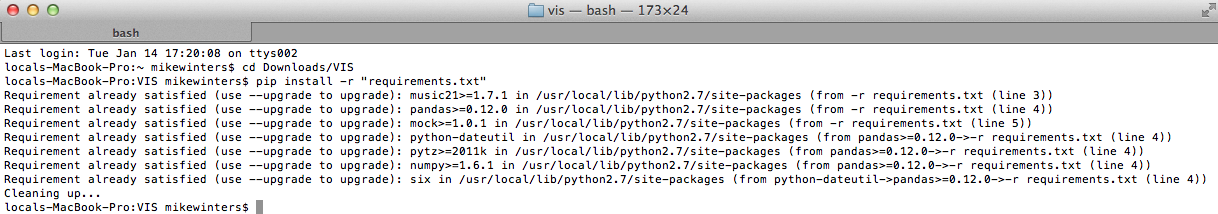
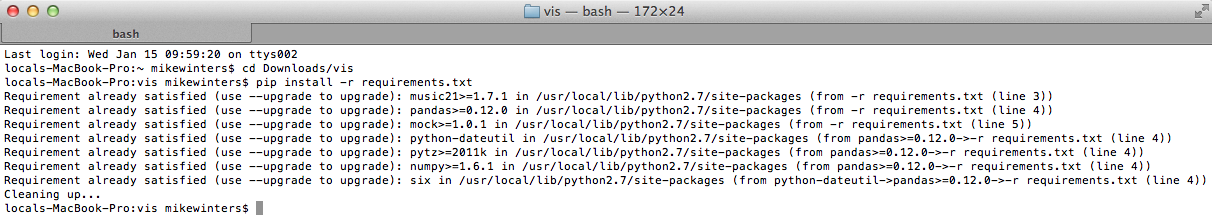
Finalized installingVIS.html after user test

diff --git a/installingVIS.html b/installingVIS.html
@@ -61,45 +61,55 @@
 
 <h2> Installing VIS  </h2>
 
-<p> Installing VIS is a two step process. First, you download the folder which includes all of our code (<a href="https://github.com/ELVIS-Project/vis/archive/master.zip">here</a>), then you install the packages that our code needs to run. The first step is easy, but the second will require some familiarity with your consol/terminal window.</p>
+<p> Installing VIS is a two step process. First, you download the folder which includes all of our code, then you install the packages that our code needs to run. The first step is easy, but the second will require some familiarity with your <a href="http://mac.appstorm.net/how-to/utilities-how-to/how-to-use-terminal-the-basics/">consol/terminal</a> window.</p>
 
+<h4> Downloading Source Code</h4>
+<p>You can get the source code in one of two ways:</p>
+<ol>
+	<li>Download this direct <a href="https://github.com/ELVIS-Project/vis/archive/master.zip">link</a>, unpack the .zip file, and change the name from 'VIS-Master' to 'vis'.</li> OR
+	<li>Run <code>git clone git@github.com:ELVIS-Project/vis.git</code> in Terminal.</li>
+</ol>
+<p>For the rest of the tutorial, we will assume you did the first option, and that if you did the second option, you can follow along.</p>
 <h4> Installing required packages </h4>
 
-<p> This is the tricky step, and will require a little knowledge of your terminal/consol window. The following steps will work for MacOSX. </p>
+<p> This is the tricky step, and will require a little knowledge of your terminal/consol window. The following steps will work for MacOSX, assuming your 'vis' folder is in your 'Downloads' folder. </p>
 
-<h5> Open your terminal window <h5>
+<h5> Step 1: Open your terminal window <h5>
 <img src="img/installingVIS/Terminal.png" alt="Opening Terminal">
 
-<h5> 'cd' into your recently downloaded VIS folder</h5>
+<h5> Step 2: Type 'cd Downloads/vis' and press 'enter'.</h5>
 <!--<p>(running 'ls' shows everything inside the folder)</p>-->
 <img src="img/installingVIS/cdinto.png" alt="cdintothefolder">
-
-<h5> run 'pip install -r requirements'</h5>
+<p> This step assumes 'vis' is in your 'Downloads' folder.  If it isn't, you should move it there and try again, or 'cd' into the folder which 'vis' is in.</p>
+<h5> Step 3: Type 'pip install -r requirements.txt' and press 'enter'.</h5>
 <img src="img/installingVIS/runpip.png" alt="Run pip install">
 <p></p>
 <p> Pip is a tool for installing and managing python packages.  Running 'pip install -r requirements' makes pip go and fetch the packages VIS needs to work, and puts them in a place that VIS can find them.</p>
 <p> In the previous example, pip found that I already had all of the packages needed (e.g. music21, pandas, mock), so it did nothing.  If this is your first time installing VIS, it may take a while for pip to download all of these packages.  In this case, you will likely see a verbosity of activity, which after a minute or so will end with 'Cleaning up...'</p>
-<p> Indeed, if this is your first time using pip, it may not be installed.  You will have to do this first.  Search google for '<a href="https://www.google.com/search?q=how+to+install+pip&oq=how+to+install+pip">how to install pip</a>', and follow the instructions there.
+<p> Indeed, if this is your first time using pip, it may not be installed.  You will have to do this first.  You can test to see if it is installed by typing 'man pip' in terminal. If after pressing 'enter' you see 'No manual entry for pip', it is not installed. Search google for '<a href="https://www.google.com/search?q=how+to+install+pip&oq=how+to+install+pip">how to install pip</a>', install it, and do step 3 again. </p>
  
 <h4> You're done! VIS has been installed. </h4>
 </br>
 
 <h2> Example Code to Get You Started  </h2>
+<p>Now that you have installed VIS, you will need some music to analyze. After downloading it, and putting it in the right place, we will use VIS to count the number of intervals across all pieces.</p>
 
-<p>Now that you have installed VIS, you can start to use it.  Let's begin by downloading some pieces to do analysis on.  For this example, I'm going to use three pieces by the composer Guillaume Dufay, an extremely influential Netherlandish composer active in the early renaissance. The three pieces I will use are:</p>
+<h4> Download music to analyze </h4>
+<p>For this example, I'm going to use three pieces by the composer Guillaume Dufay, an extremely influential Netherlandish composer active in the early renaissance. The three pieces I will use are:</p>
 <ol>
 	<li> Alma redemptoris mater </li>
 	<li> Anima mea liquefacta est </li>
 	<li> Ave maris stella </li>
 </ol>
-<p> To help you get started, I've put them in a .zip file on our site. You can download those files <a href="resources/dufay.zip">here</a>.  This music and more are available on our <a href="http://elvis.music.mcgill.ca/">symbolic music database</a>.</p> 
+<p> To help you get started, I've put them in a <a href="resources/dufay.zip">.zip file</a> on our site. This music and more are available on our <a href="http://elvis.music.mcgill.ca/">symbolic music database</a>.</p> 
 
-<p>For this example, put the three pieces in a folder called "dufay," and put that folder in the same directory as VIS. I put both into a directory I called 'VIS-Tests':</p> 
+<h4> Put the music in the correct place </h4>
+<p>After downloading the .zip file, and unpacking it, you should put the 'dufay' folder in the same place as the 'vis' folder. For the sake of simplicity, I have put both into a folder called 'VIS-Tests' that is on my desktop.</p>
 <img src="img/installingVIS/vistests.png" alt="in the same folder">
 
-<h4> Write some code </h4>
+<h4> Use VIS to Count Intervals</h4>
 
-<p>Now that everything is in the right place, we can write some code for contrapuntal analysis.  This code is unique to VIS, and will count the number and quality of intervals in the three pieces.  That code is written below, but for the sake of simplicity, you can download it <a href="resources/test.py">here</a>.</p>
+<p>Now that everything is in the right place, we can write some code for contrapuntal analysis.  This code is unique to VIS, and will count the number and size of intervals in the three pieces.  </p>
 
 <pre>from vis.workflow import WorkflowManager
 	
@@ -114,15 +124,27 @@ wm.run('intervals')
 wm.export('CSV','results')
 </pre>
 
-<p>That code should be saved into a file, and put into the same directory as VIS, but not in the VIS folder itself.  For this example, I've saved my code as 'test.py' and put it into a folder called 'VIS-Tests' which contains the 'VIS' folder and the 'Dufay' folder which you just downloaded. </p> 
+<p>Save that code as '<a href="resources/test.py">test.py</a>' and put it into our 'VIS-Tests' folder. </p> 
 
 <img src="img/installingVIS/testabove.png" alt="test.py is above VIS">
 <p></p>	
-<p>In MacOSX, python is built into Terminal, so to run the code I meerly type 'python test.py', and the results are saved into a file called results.csv in that directory. CSV is a commonly used data type, and can be easily read my many programs including Excel.</p>
+<p>In MacOSX, python is built into Terminal, so to run the code I meerly type 'python test.py'.</p>
 
 <img src="img/installingVIS/results.png" alt="results are in .csv format">
 <p></p>
-<p>The results list all extracted intervals in order from most common to least common. The third is the most common with 453 occurrences.  The 5th is the second most common with 405 occurrences, etc.</p>
+<p>The results are put into a file called 'results.csv' in the 'VIS-Tests' folder.  It lists all extracted intervals in order from most common to least common. The third is the most common with 453 occurrences.  The 5th is the second most common with 405 occurrences, etc.</p>
+<pre>
+ ,data
+3,453.0
+5,405.0
+6,384.0
+8,349.0
+4,266.0
+10,247.0
+12,130.0
+etc..
+</pre>
+
 <h4> Congrats, you've written your first VIS code! </h4>
 </br>
 <h2> Getting more help </h2>
